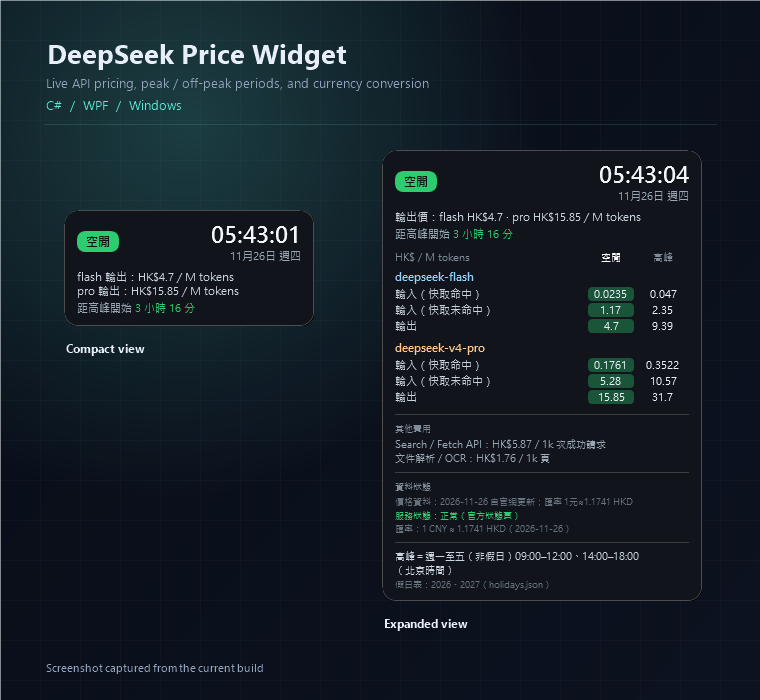
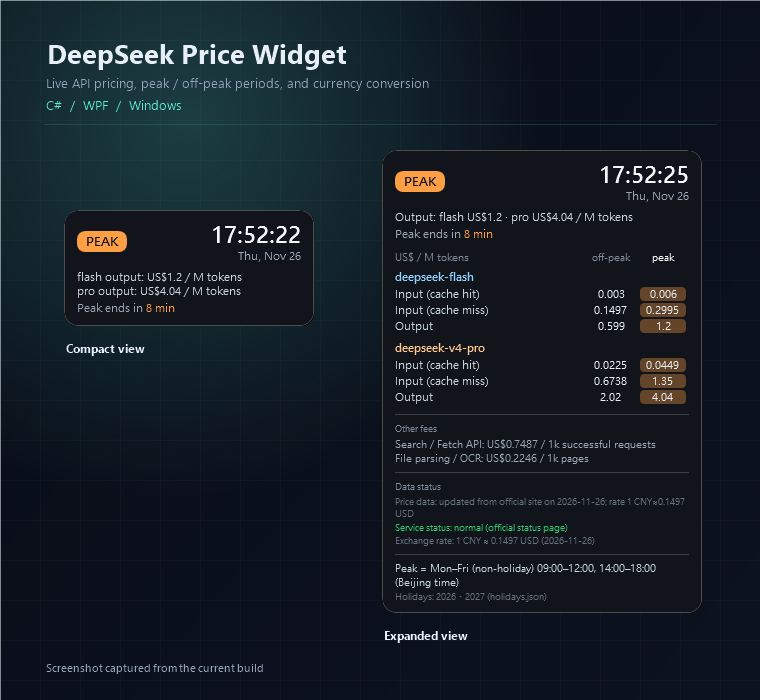
Localize table headers and refresh README screenshot

diff --git a/src/DeepSeekPriceWidget.cs b/src/DeepSeekPriceWidget.cs
@@ -1165,6 +1165,8 @@ static class Program
         if (lblProOut != null) { lblProOut.Text = S("row.out", "輸出"); }
         if (lblFees != null) { lblFees.Text = S("section.fees", "其他費用"); }
         if (lblStatus != null) { lblStatus.Text = S("section.status", "資料狀態"); }
+        if (headOff != null) { headOff.Text = S("period.offpeak", "空閒"); }
+        if (headPeak != null) { headPeak.Text = S("period.peak", "高峰"); }
         if (notePeak1 != null) { notePeak1.Text = S("note.peak1", "高峰＝週一至五（非假日）09:00–12:00、14:00–18:00"); }
         if (notePeak2 != null) { notePeak2.Text = S("note.peak2", "（北京時間）"); }
         if (pinHint != null) { pinHint.Text = S("pin.hint", "已釘住"); }
@@ -2482,6 +2484,10 @@ static class Program
                 countdownText.Inlines.Clear();
             }
         }
+        if (headOff != null) { headOff.Text = S("period.offpeak", "空閒"); }
+        if (headPeak != null) { headPeak.Text = S("period.peak", "高峰"); }
+        if (lblFees != null) { lblFees.Text = S("section.fees", "其他費用"); }
+        if (lblStatus != null) { lblStatus.Text = S("section.status", "資料狀態"); }
         string pn = S("pricenote.default", "價格資料：內建預設（尚未更新）");
         if (!string.IsNullOrEmpty(priceUpdateDate)) { pn = SF("pricenote.updated", "價格資料：{0} 自官網更新", priceUpdateDate); }
         if (priceFetching)
